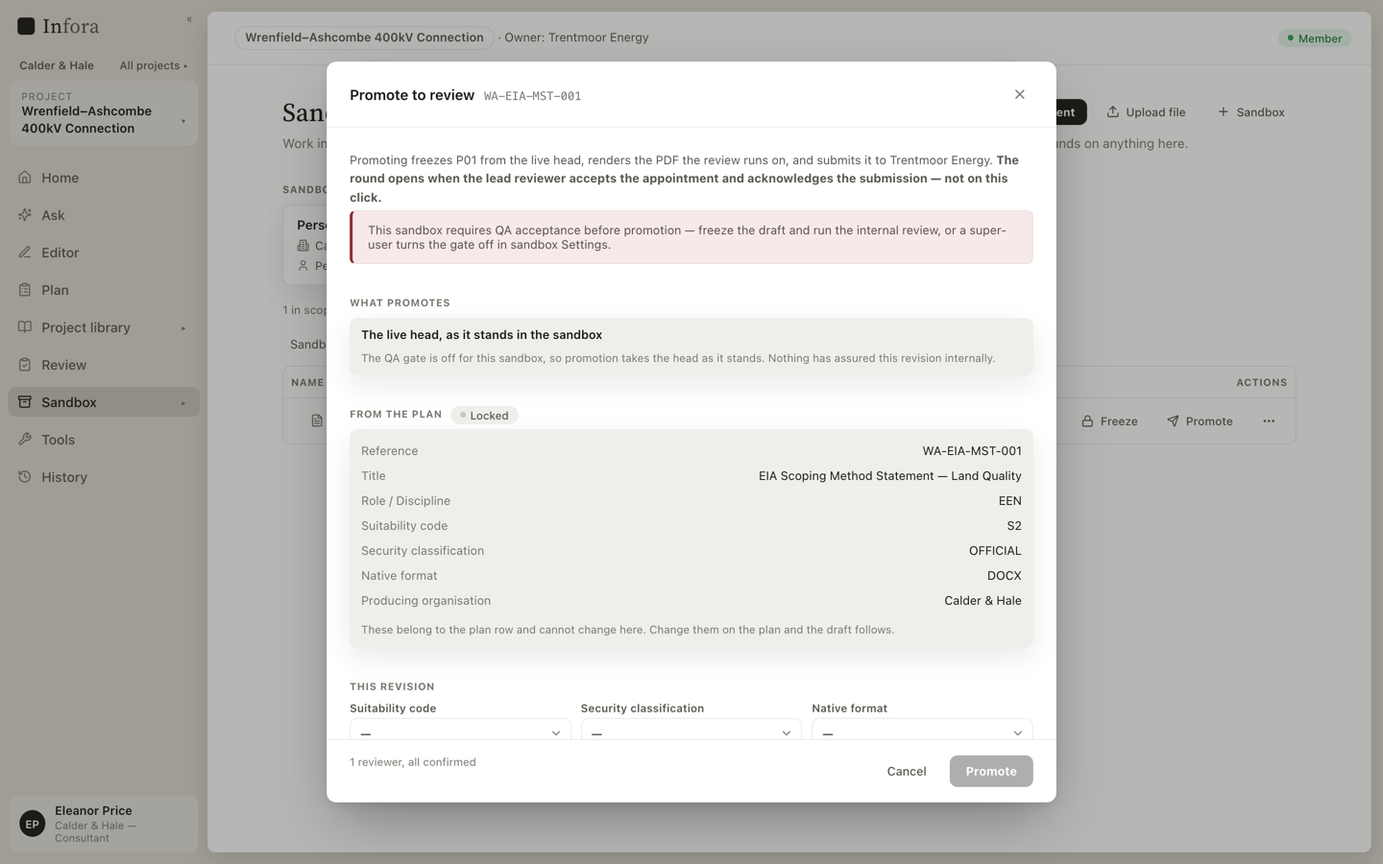
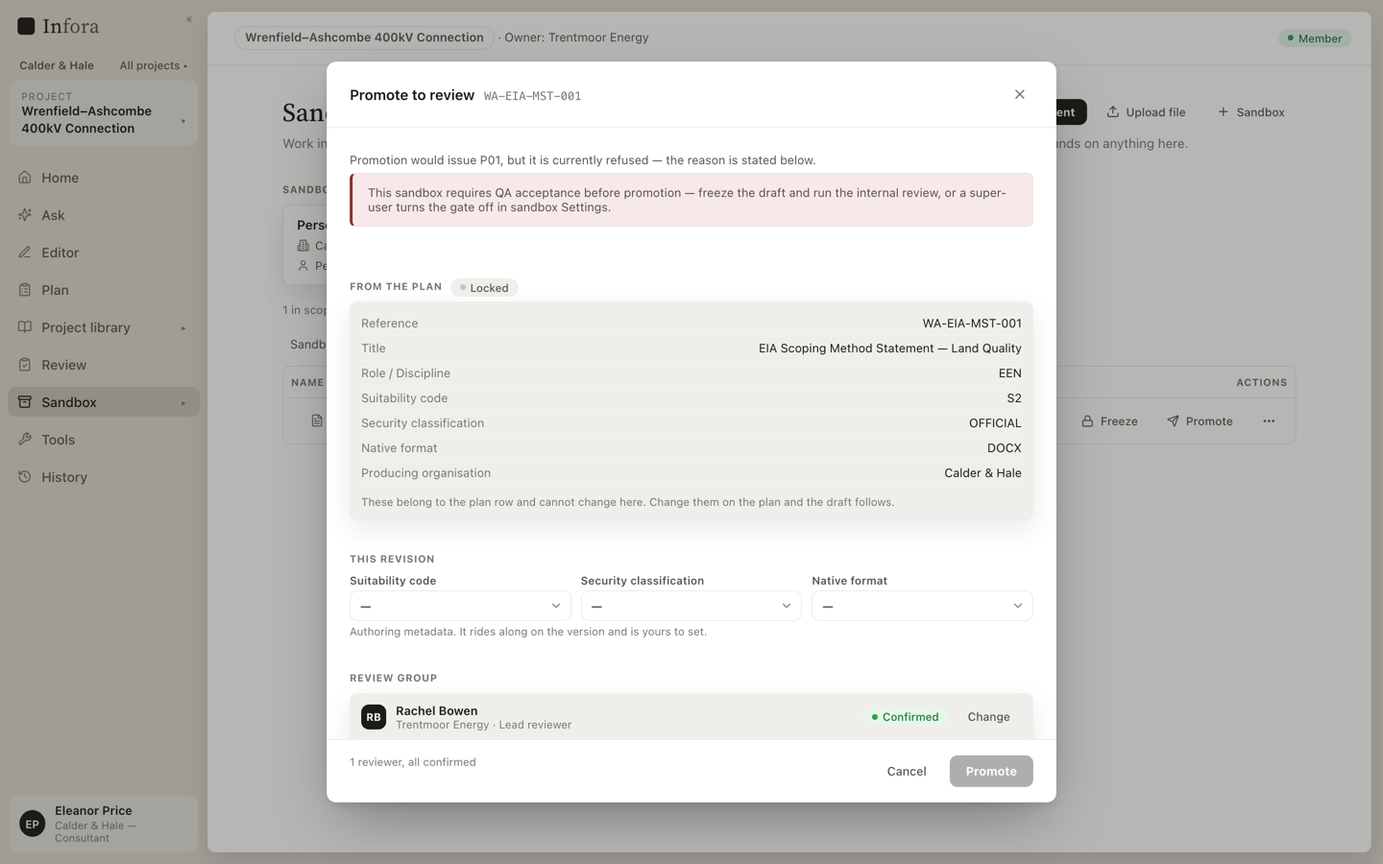
Slice Walkthrough 2 audit close-out: the records match the build, and the walkthrough is recaptured
The board gains the audit block (T-377–T-382, all built) and T-369's second
pass; three design forks the audit refused to rule alone are Q-042–Q-044.
contracts.md records the why of the three contract changes. personal-data.md's
decline-reason deletion clause moves out of the fourth cell of a three-column
table — where every renderer silently discarded it — into prose beside its
sibling. data-model.md states migration 0047's deliberate non-backfill where
an operator will find it: every pre-migration confirmed lead blocks
acknowledgement until that person accepts, and nobody is notified.

The walkthrough narrative stops describing screens the build does not
produce: beat 24 no longer narrates the record screen under the cycle
screen's photograph, beat 24a admits the third response state and the dash
cells, beat 13a's "every reviewer control writes a proposal" gains the
owner-side auto-confirm truth and the one-act swap, beat 15 names the
super-user fallback, the footer stops claiming round 1's acknowledgement was
API-driven, and the three capture dates agree. All 33 beats recaptured
through capture.mjs against the fixed build — beat 10's refused window no
longer contradicts itself, and beat 19's walled cycle screen now states the
withholding.

diff --git a/docs/architecture/user-stories-walkthrough.html b/docs/architecture/user-stories-walkthrough.html
@@ -101,7 +101,7 @@
 <div class="page">
   <header class="mast">
     <span class="mark"></span><span class="word">Infora</span>
-    <span class="doc">docs/architecture · recaptured 2026-08-09</span>
+    <span class="doc">docs/architecture · recaptured 2026-08-22</span>
   </header>
 
   <h1>The document management journey, on screen</h1>
@@ -366,7 +366,7 @@
   </div>
   <figcaption>
     <h3>The window reconfirms; it does not compose</h3>
-    <p>ADR-0008 made promotion a near-empty hand-off on purpose, because a form filled in the moment is a form filled wrong. This window survives that objection by splitting the fields rather than by tone. What promotes is named and read-only — the version internal QA accepted, and who accepted it, because the whole point of the gate is that the client receives the version that was checked. The plan-owned identity is shown and locked, so a thoughtless confirm produces exactly the plan’s state. Only what is already Eleanor’s to set takes input: the authoring metadata, the review group with its lead, and the review period. Every reviewer control writes a proposal — naming someone in another organisation proposes them and nothing more, because confirmation stays owner-side, and that is why a producing organisation cannot open the wall from this window. It reopens at every promotion, which earns its place at round two more than round one: six months and a staffing change later, the alternative is silently inheriting a review group named at planning and never looked at since.</p>
+    <p>ADR-0008 made promotion a near-empty hand-off on purpose, because a form filled in the moment is a form filled wrong. This window survives that objection by splitting the fields rather than by tone. What promotes is named and read-only — the version internal QA accepted, and who accepted it, because the whole point of the gate is that the client receives the version that was checked. The plan-owned identity is shown and locked, so a thoughtless confirm produces exactly the plan’s state. Only what is already Eleanor’s to set takes input: the authoring metadata, the review group with its lead, and the review period. From the producing side every reviewer control writes a proposal — naming someone in another organisation proposes them and nothing more, because confirmation stays owner-side (an owner-side naming confirms outright, as owner grants always have), and that is why a producing organisation cannot open the wall from this window. Changing the lead reviewer is one act, not a remove-then-name pair — the swap either happens whole or not at all, and the window states the wait it buys before the click commits it. It reopens at every promotion, which earns its place at round two more than round one: six months and a staffing change later, the alternative is silently inheriting a review group named at planning and never looked at since.</p>
     <p class="tags"><span class="tag">ADR-0008</span><span class="tag">ADR-0038</span><span class="tag">ADR-0033</span></p>
   </figcaption>
 </figure>
@@ -406,7 +406,7 @@
   </div>
   <figcaption>
     <h3>P01 submitted, awaiting acknowledgement</h3>
-    <p>The submission, from the producing side: Infora froze P01 out of the window above, rendered the review PDF beside the native file, and sent round 1 to Trentmoor. The four-state bar says exactly where the deliverable stands — submitted, and not yet in review, because the round does not open on the promoter’s click. It opens when the lead reviewer accepts the appointment and acknowledges the submission, which is the next two beats and neither of them is Eleanor’s to make.</p>
+    <p>The submission, from the producing side: Infora froze P01 out of the window above, rendered the review PDF beside the native file, and sent round 1 to Trentmoor. The four-state bar says exactly where the deliverable stands — submitted, and not yet in review, because the round does not open on the promoter’s click. It opens when the lead reviewer accepts the appointment and acknowledges the submission — or, with the lead away, when a Trentmoor super user acknowledges in their stead — which is the next two beats and neither of them is Eleanor’s to make.</p>
     <p class="tags"><span class="tag">ADR-0034</span><span class="tag">ADR-0041</span><span class="tag">ADR-0051</span></p>
   </figcaption>
 </figure>
@@ -582,7 +582,7 @@
   </div>
   <figcaption>
     <h3>Version two arrives already reconciled</h3>
-    <p>Rachel does not go hunting for what changed. Each response sits beside her comment in the same record, stamped “Changed in P02” with the passage that answers it; the no-change answer states its reason. Round 1 stands as the record it was; round 2 opens on the new version — which took the same road as the first, through its own internal QA pass, because one QA acceptance buys exactly one revision.</p>
+    <p>Version two arrives and the working screen stays on the round under review: round 2, freshly acknowledged, no comments yet — the reconciliation Rachel will read sits in the record one click away, which is the next beat. P02 took the same road as the first version, through its own internal QA pass, because one QA acceptance buys exactly one revision; and round 2 opened the way every round now opens, on acceptance and acknowledgement, not on the promoter’s click.</p>
     <p class="tags"><span class="tag">ADR-0009</span></p>
   </figcaption>
 </figure>
@@ -594,7 +594,7 @@
   </div>
   <figcaption>
     <h3>One table, appended to — not a sheet per round</h3>
-    <p>The chapter’s whole review history in one scroll: every comment in order with where it sits, its code, its author and the response that answered it, round one closed off by the deliverable code it concluded with, round two appended to the same table rather than opening a new one. This is what the Excel review notice could never do, and the reason ADR-0009 refused to materialise a second artifact from the record. Each response either points at the change — “Changed in P02”, with the passage — or states explicitly that none was made and why; there is no third state and no blank cell. Round two carries a band saying it has no code yet, because an open round with no verdict is a state rather than a gap, and no count of comments will ever fill it. There is no download, no “issue the record”, no print button anywhere on this screen: the DRN was dropped and a button here would quietly reinstate it.</p>
+    <p>The chapter’s whole review history in one scroll: every comment in order with where it sits, its code, its author and the response that answered it, round one closed off by the deliverable code it concluded with, round two appended to the same table rather than opening a new one. This is what the Excel review notice could never do, and the reason ADR-0009 refused to materialise a second artifact from the record. Each answered comment’s response either points at the change — “Changed in P02”, with the passage — or states explicitly that none was made and why; a response written before its promotion reads “change prepared for the next revision” until the stamp lands (ADR-0004’s declare-now, stamp-later). Round two carries a band saying it has no code yet, because an open round with no verdict is a state rather than a gap, and no count of comments will ever fill it. There is no download, no “issue the record”, no print button anywhere on this screen: the DRN was dropped and a button here would quietly reinstate it.</p>
     <p class="tags"><span class="tag">ADR-0009</span><span class="tag">ADR-0004</span><span class="tag">ADR-0005</span></p>
   </figcaption>
 </figure>
@@ -638,16 +638,16 @@
 </section>
 
   <footer class="prov-foot">
-    <p><strong>Provenance.</strong> Recaptured 2026-08-09 from the running application: e2e API substrate with deterministic
+    <p><strong>Provenance.</strong> Recaptured 2026-08-22 from the running application: e2e API substrate with deterministic
     model providers, the seeded three-organisation Wrenfield world, Playwright-driven browser sessions for all three personas.
     The one beat Playwright cannot photograph — the library modal’s embedded PDF pane — is represented by the library
     table instead.</p>
     <p><strong>What was driven through the API rather than clicked.</strong> Setting up the world: four plan rows beside
     the seeded one and their schema metadata, the organisation’s column standard, the draft and its text, and filing that
     draft into its deliverable folder. Running the cycle: appointing the internal reviewer and the re-freeze that opens the
-    QA round (both explained in Act III’s gap card), the owner’s acknowledgement of each submission, and version two’s
-    internal QA pass and promotion, which repeat Act III’s road and are narrated rather than re-photographed. Everything a
-    screenshot on this page shows being done was done on that screen.</p>
+    QA round (both explained in Act III’s gap card), version two’s acknowledgement — round 1’s is the beat-16 click —
+    and version two’s internal QA pass and promotion, which repeat Act III’s road and are narrated rather than
+    re-photographed. Everything a screenshot on this page shows being done was done on that screen.</p>
     <p><strong>What moved under the last capture.</strong> An owner-directed walk of the previous version of this page
     produced nine rulings, built the same day as tickets T-355 and T-358–T-366. Five of them are new beats here: the schema
     screen the story now opens on, the structure builder and its assistant, the three-way folder mode beside the promotion

diff --git a/docs/build/plan.md b/docs/build/plan.md
@@ -80,7 +80,7 @@ The wave design-reference blocks below are a **holding pen, not a home**. Each f
 
 ## How to read a ticket
 
-`T-###` — title. **Next free number: T-377** — **derive it, don't trust it: `pnpm run check:tickets -- --next`** scans this board, the history *and* `git log` and prints the next free number. Bump this line in the same commit that claims numbers; `pnpm run check` fails if it falls behind, or if one number is defined twice. The line stays because it is readable, but the script is the authority — the prose convention alone let concurrent sessions collide twice (T-208–T-210, T-223–T-233). **Deps:** tickets that must be done first — **tickets only, never a `Q-###`** (see the rule below).
+`T-###` — title. **Next free number: T-383** — **derive it, don't trust it: `pnpm run check:tickets -- --next`** scans this board, the history *and* `git log` and prints the next free number. Bump this line in the same commit that claims numbers; `pnpm run check` fails if it falls behind, or if one number is defined twice. The line stays because it is readable, but the script is the authority — the prose convention alone let concurrent sessions collide twice (T-208–T-210, T-223–T-233). **Deps:** tickets that must be done first — **tickets only, never a `Q-###`** (see the rule below).
 
 **⚖ The Q/T boundary — what earns a ticket number** *(adopted 2026-08-01)*. **A `T-###` is minted when the work can be *specified*. A `Q-###` exists when the question can be *stated*.** Being able to state a question precisely is not the same as being able to answer it, and it is never enough to justify a build ticket. So: unruled work is named in its slice's prose as **🌫 Fog** and ticketed when the ruling lands; a Deps field contains tickets only; and **what a question blocks lives in that question's own Blocks field**, which is the one place that relationship is recorded. The cost of getting this wrong is not theoretical — tickets minted against open questions carried the tracker's *recommendations* into their text, and when the rulings went the other way the board contradicted itself and needed a reconciliation commit (504f473). **Done when:** the acceptance test, drawn from the destination spec its slice serves â [v1.md](v1.md) for current work, [plan-history.md](plan-history.md) for the closed skeleton milestones. Package names from [repo-structure.md](repo-structure.md). A ticket is sized for one focused agent run (roughly a PR each).
 
@@ -439,7 +439,16 @@ entry naming its gate and where its design lives.
 - **T-357 — Retire the review screen's parallel plan form.** `review.tsx` still carries a pre-Plan-screen "+ Plan a deliverable" inline form: it bypasses the naming scheme, lacks the elevated-tier gate `plan.tsx` enforces, and maps every failure — including the API's `403 super_user_required` — to "That document reference already exists on this project." One creation path (the Plan screen's modal); the review schedule links there instead. | *(Deps: none)*
 - **T-370 — Agent actor identity, and the receipt-with-undo substrate.** The ADR-0027 agent-act amendment's administrative lane (S10, owner-ruled 2026-08-09) licenses an embedded agent to execute menial acts directly — and no build may adopt that lane until two substrates exist, because both are what makes direct execution *reviewable after the fact* rather than merely permitted: (1) **the act attributed to the agent run** — today every write is attributed to the invoking participant alone; the run is recorded, but the act itself never says an agent performed it — an acting-run reference on audited acts, surfaced wherever the act is shown; (2) **the "what the agent did" receipt with undo**, designed once and reused by every administrative agent (reversible or additive acts only — the amendment's own boundary). Until this lands, T-337 and T-364 stay preview-confirm, which the amendment reads as interaction design, not doctrine. personal-data.md check rides along (no new named-person data expected — the run already carries its requester). | *(Deps: none)*
 - **T-376 — `null` means two things on the plan screen, and one of them reopens invented references.** ✅ **Built 2026-08-22.** *(Found 2026-08-22 by the Slice Walkthrough 2 capture — an e2e flake was the symptom, and the cause is in the product.)* [plan.tsx:648](../../apps/web/src/screens/plan.tsx#L648) holds the naming scheme as `NamingScheme | null` filled by an async read, and the New-deliverable modal branches on it: `scheme ? coded dropdowns : a manual reference field`. So **`null` carries "this project has no scheme" and "the scheme has not arrived yet" in one value**, and the UI renders the same thing for both. Two consequences. **The manual branch has no reachable state:** `GET /naming-scheme` never returns null — `loadSchemeOrDefault` serves the Infora default when nothing is saved (T-188) — so it is an unlabelled *loading* state wearing the costume of a configuration, and opening the modal fast gives you a reference field you can type into which is then swapped out under you. **And a failed read degrades to hand-typing:** there is no `.catch` on that effect, so a rejection leaves `scheme` null forever and the modal presents manual reference entry as though it were the project's setting — quietly reopening the thing ADR-0008 exists to close (*the reference is generated, never invented*). **The contract let the ambiguity in:** `GetNamingSchemeResponse` is `NamingScheme | null` and is never null. Make the type honest, give the screen a real three-state (loading / ready / failed) with creation **refused** rather than degraded when the scheme cannot be read, and delete the dead branch. The e2e flake at [slice-a2-ui.spec.ts:42](../../e2e/tests/slice-a2-ui.spec.ts#L42) — which branches on the same race — then needs no test-side fix at all, which is the tell that the repair is in the right place. **What it uncovered is worth as much as what it fixed:** the manual branch was an accidental escape hatch, and deleting it made two flakes hiding behind it deterministic — both **T-369**, fixed alongside. The lesson generalises past this screen: an optional type is a claim that the absent case is *reachable and meaningful*, and where it is neither, some surface eventually invents a meaning for it. | *(Deps: none)*
-- **T-369 — The plan-seed test asserts on a position it does not own.** ✅ **Built 2026-08-22**, alongside T-376, which turned it from intermittent into deterministic and so forced it. *(Found 2026-08-09 verifying T-368 — it failed once, then passed on three consecutive runs, which is the tell.)* `sandbox-structure.spec.ts:61` creates one plan row with `discipline: 'ECV'` and then asserts the builder's **first** proposed folder name matches `/ECV/` — but the T-363 seed derives one candidate per **distinct discipline on the whole organisation's plan**, ordered, so `first()` is only ECV while nothing sorts before it. `slice-a2-ui.spec.ts:45` drives the New-deliverable modal by selecting `{ index: 1 }` on every combobox, and index 1 of the discipline field is **`CCA`** — the first entry in the default scheme's discipline list, and alphabetically ahead of ECV. Both suites share the seeded database and `fullyParallel: false` only serialises *within* a file, so whether the CCA row exists yet is a matter of which file a worker picked up first. **The assertion is the defect, not the ordering:** the test should match its own row's candidate wherever it sits (filter the inputs by value, or assert the row it created is present among them) rather than assume position — pinning the execution order would hide the same fragility in the next test that seeds a discipline. Worth a sweep for the sibling pattern: any `.first()` assertion over a list the shared seed can grow. **As built, and the sweep found the bigger half:** the assertion now polls the candidate inputs' live values for its own row wherever it sits, rather than reading `.first()`. But the diagnosis above named the real defect and stopped short of acting on it — *"`fullyParallel: false` only serialises within a file"* — and that is a **configuration** claiming a guarantee it does not give: the comment beside it said *"suites share the seeded database"* while the files were being handed to five workers. The sharper case is not ordering at all: `slice-a2` **replaces the project-wide coding scheme** mid-suite while `slice-a2-ui` is driving the New-deliverable modal against it, so the modal's selections stop matching the scheme between render and click and creation is refused. No assertion can be written around that — it is two tests owning one piece of mutable global state. `workers: 1` is the honest version of the intent the comment already had; the whole suite runs in under thirty seconds, so the parallelism was never paying for the flakes it bought. | *(Deps: none)*
+- **T-369 — The plan-seed test asserts on a position it does not own.** ✅ **Built 2026-08-22**, alongside T-376, which turned it from intermittent into deterministic and so forced it. *(Found 2026-08-09 verifying T-368 — it failed once, then passed on three consecutive runs, which is the tell.)* `sandbox-structure.spec.ts:61` creates one plan row with `discipline: 'ECV'` and then asserts the builder's **first** proposed folder name matches `/ECV/` — but the T-363 seed derives one candidate per **distinct discipline on the whole organisation's plan**, ordered, so `first()` is only ECV while nothing sorts before it. `slice-a2-ui.spec.ts:45` drives the New-deliverable modal by selecting `{ index: 1 }` on every combobox, and index 1 of the discipline field is **`CCA`** — the first entry in the default scheme's discipline list, and alphabetically ahead of ECV. Both suites share the seeded database and `fullyParallel: false` only serialises *within* a file, so whether the CCA row exists yet is a matter of which file a worker picked up first. **The assertion is the defect, not the ordering:** the test should match its own row's candidate wherever it sits (filter the inputs by value, or assert the row it created is present among them) rather than assume position — pinning the execution order would hide the same fragility in the next test that seeds a discipline. Worth a sweep for the sibling pattern: any `.first()` assertion over a list the shared seed can grow. **As built, and the sweep found the bigger half:** the assertion now polls the candidate inputs' live values for its own row wherever it sits, rather than reading `.first()`. But the diagnosis above named the real defect and stopped short of acting on it — *"`fullyParallel: false` only serialises within a file"* — and that is a **configuration** claiming a guarantee it does not give: the comment beside it said *"suites share the seeded database"* while the files were being handed to five workers. The sharper case is not ordering at all: `slice-a2` **replaces the project-wide coding scheme** mid-suite while `slice-a2-ui` is driving the New-deliverable modal against it, so the modal's selections stop matching the scheme between render and click and creation is refused. No assertion can be written around that — it is two tests owning one piece of mutable global state. `workers: 1` is the honest version of the intent the comment already had; the whole suite runs in under thirty seconds, so the parallelism was never paying for the flakes it bought. **Second pass, 2026-08-23 (the audit's finding):** the sweep had missed a file and half the mutation — `ontology.spec.ts` read `plan.items[0]`/`library.items[0]` off reference-ordered lists that three sibling suites plant earlier-sorting rows into (passing purely by file order, which `workers: 1` hides rather than fixes), and `slice-a2` replaced the project-wide coding scheme with **no restore**, so a second local run of any suite met the WA/BB-CC/GEO-ENV scheme instead of the seeded default — serialisation orders mutations, it does not undo them. Both closed: the reads are named, and `slice-a2` puts the Infora default back in `afterAll`. | *(Deps: none)*
+
+**Slice Walkthrough 2 audit findings** *(the 2026-08-22 adversarial audit of the slice, reproduced live against the running stack — the residue with numbers. T-377–T-382. Three design forks the audit refused to rule alone went to the tracker as Q-042–Q-044.)*
+
+- **T-377 — The lead swap could not be performed, and in one configuration destroyed the appointment.** ✅ **Built 2026-08-22.** The promotion window fired the swap as revoke-then-grant, and both halves were wrong. **The revoke:** a producing-side caller may only retract an *unconfirmed* proposal ([plan.ts](../../apps/api/src/plan.ts) revocation guard), so the mockup's State B — the scenario the window exists for — aborted at its first act with a bare "not found", after permanently applying any staged removals of unconfirmed reviewers ("Undo means never happened" was false the moment Promote was clicked). **The gate:** `resolvePromotion` demanded a *confirmed* lead, while ADR-0033 §1 says *"replacing the lead stalls that round"* — the submission exists and waits — and the approved mockup drew Promote clickable with the new lead badged Proposed; where the promoting author happened also to be the confirmed lead reviewer, the revoke *succeeded*, the grant landed unconfirmed, the promotion refused 409, and the deliverable was left with no live lead and nothing rolled back (reproduced live). **As built:** promotion accepts a **named** lead — proposed is enough; the confirmed-and-accepted gates stay on the acknowledgement where ADR-0051 put them — and the swap is **one transactional act**, `POST /containers/:id/lead-reviewer`, revoking the standing lead and writing the new proposal together, because the one-live-lead invariant makes the pair inseparable. The revocation endpoint additionally admits the producing side's row-editors (ADR-0008 addendum: the lead author *"may amend the review group"*; revocation only narrows access, so the wall is untouched). The window fires the swap as that one act, enables Promote when the only blocker is the very lead the staged swap creates, and refuses client-side when a lead is staged-removed with no replacement named. E2e now drives State B end to end — the half no run ever drove, which is how it shipped broken. | *(Deps: none)*
+- **T-378 — A failed scheme read could wipe the project's coding scheme.** ✅ **Built 2026-08-22.** T-376 fixed "loading wearing the costume of configuration" on the plan screen and missed the same shape one screen over, where it writes: [schema.tsx](../../apps/web/src/screens/schema.tsx) loaded the scheme with no `.catch`, a failed read left the editor showing an empty field table, and Save would have written that emptiness back over the real scheme. The editor now holds the plan screen's three-state (loading / ready / failed) and **saving is refused, not degraded**, until the real scheme has arrived; the failed state says so beside the disabled button. The sandbox screen's cosmetic read gains its missing `.catch`. | *(Deps: none)*
+- **T-379 — The wall is one discipline, not one screen's.** ✅ **Built 2026-08-22.** T-375 walled the record screen and the audit found two siblings still asserting the absence the wall denies: the cycle screen rendered *"No comments yet — the round is open to the review group"* to the walled side — the exact sentence the record's e2e forbids, one click from the record via its own "Open the round" button — and the status page drew a "Reviewing" badge for every confirmed reviewer off a withheld-empty completions list, asserting "nobody has finished" from data the server refused to send. The cycle screen now states the withheld notice; the contract gains `Round.completionsWithheld` beside `commentsWithheld` (an empty array alone cannot tell "none" from "not yours to know"), computed in the same server-side phasing, and the badge stands down when it is set. E2e now visits the cycle screen as the walled side. | *(Deps: none)*
+- **T-380 — The refused promotion window contradicted itself on screen.** ✅ **Built 2026-08-22.** A preflight that refuses carries no real source decision — the API fills `source: 'head'` as a placeholder — so the very window showing the QA-gate refusal also asserted *"The QA gate is off for this sandbox… Nothing has assured this revision internally"*, flatly false, and photographed into the walkthrough's beat 10. The window now renders the source claims and the "What promotes" card only when the preflight succeeds; a refused preflight states the refusal and nothing the refusal makes unknowable. | *(Deps: none)*
+- **T-381 — The target date the user was shown was not the date the server stored.** ✅ **Built 2026-08-22.** [addWorkingDays](../../apps/api/src/review-period.ts) counts working days in UTC; the window's Target preview counted them in the browser's local time, so whenever the local clock and UTC sat on different calendar days at the click — evenings in the Americas — the preview and the stored target disagreed by a day, with the round going overdue a day before the date the window promised (US Pacific, Friday 18:00, one working day: preview Monday, stored target renders Sunday — computed, not speculated). The preview now walks the same UTC arithmetic as the server, so the two cannot disagree. | *(Deps: none)*
+- **T-382 — The window's "what promotes" promise, made honest under concurrency.** ✅ **Built 2026-08-22.** The preflight and the act run the same decision function, so the *gates* could never drift — but the *statements* could: a fresh QA acceptance landing between the window opening and Promote being clicked would silently promote different content than the version the window named, with no re-confirmation. The promotion body now carries `expectedSourceVersionReference` — the source the caller was shown, null for the head — and the POST refuses `409 promotion_state_changed` when the answer has changed; omitted, no check, so bare callers and tests are untouched. | *(Deps: T-373)*
 
 **Slice Walkthrough 2 — the promotion window, the appointment, and the review record** *(the second owner-directed walk of [user-stories-walkthrough.html](../architecture/user-stories-walkthrough.html), 2026-08-19 → 22 → addenda to [ADR-0005](../architecture/adr/0005-assurance-cycle.md), [ADR-0008](../architecture/adr/0008-deliverable-plan.md), [ADR-0033](../architecture/adr/0033-per-org-plans-appointment-grants-administration.md) and [ADR-0051](../architecture/adr/0051-review-submission-owner-acknowledgement-gate.md). T-371–T-375.)* Four rulings, all in the stretch between a finished draft and an open round — the part of the cycle the first walk left alone. Three are **surfaces for acts the model already has** and one, the appointment acceptance, is an act the model never had. **Each was drawn before it was built:** `promotion-window.html`, `appointment-acceptance.html` and `review-log.html` were ruled on before any code, and each was **deleted when its screen was photographed into the walkthrough on 2026-08-22** — the capture is the record now, and the reasoning is in the ADR addenda, which is why those were written first ([docs/design/README.md](../design/README.md)). Build in number order; T-375 waits on nothing and can go first or last. **Notifications are deliberately out** — the owner deferred Slice V1-N on 2026-08-22, so an appointed lead reviewer is told nothing and finds out by opening the deliverable: the gate holds, the submission just waits longer.
 

diff --git a/docs/grill-sessions/grill-questions.md b/docs/grill-sessions/grill-questions.md
@@ -36,7 +36,7 @@ is the **process log**.
 
 ## How to read an entry
 
-`Q-###` — title. **Next free number: Q-042** — **derive it, don't trust it:
+`Q-###` — title. **Next free number: Q-045** — **derive it, don't trust it:
 `pnpm run check:questions -- --next`** (T-343) scans this tracker,
 [grill-history.md](grill-history.md) *and* `git log`, and prints the next free
 number. Bump this line in the same commit that claims one; `pnpm run check`
@@ -184,6 +184,9 @@ this group that a ticket found by trying to build the thing.
 ### The record
 
 - ~~**Q-041 — Where the review record lives.**~~ ✅ **Ruled 2026-08-22 (owner): its own pane.** Raised by T-375 as the one fork its approved mockup left marked *"needs your yes/no"*, and answered as built — the record keeps its own route (`review/:containerId/record`), so it is a place you can send someone rather than a view of a screen, and the round tray stays the working surface it is. Record in [grill-history.md](grill-history.md).
+- **Q-042 — Does the internal QA lead give the undertaking too?** **[A]** · *Blocks: nothing — the built exemption is ADR-licensed.* Raised 2026-08-22 by the slice-walkthrough-2 audit. **The user situation:** inside one firm's own sandbox, a colleague is named internal QA lead and the QA round simply opens — no Accept click, because sandbox rounds are born open (ADR-0051 §4: a firm should not acknowledge its own submission to itself) and the acceptance gate rides the acknowledgement. Yet the QA verdict is what promotion issues to the client, and the appointment surface at that scope shows the same undertaking card asking for a yes that nothing waits on. **Recommendation:** keep the exemption — the internal verdict is org-private QA, not the contractual verdict the undertaking exists for — and say so on the card at that scope. **Stress test:** the same fork hides a second one — at sandbox scope a declined QA appointment's *reason* is readable by nobody but its author, because "owner-organisation-private" names the wrong organisation on a container the owner cannot even see; whoever answers this question should say who reads a QA decline reason.
+- **Q-043 — What does a declined reviewer's history still let them do?** **[A]** · *Blocks: nothing.* Raised 2026-08-22 by the same audit. **The user situation:** a reviewer marks "review complete" on the open round, then declines their lead appointment for the next. As built (T-372), the decline strips every reviewer act at once — so their standing completion mark can never be withdrawn (it renders forever), and they can no longer fix a typo in a comment that stays attributed to them on the permanent record. **Recommendation:** authorship of what they already wrote is a separate standing from the appointment they refused — let the author edit their own comment while the round is open, and let a completion mark be withdrawn by its owner regardless of the grant's state. **Stress test:** if a declined reviewer can still touch their comment, the wall must be clear that this is authorship, not membership — they gain no read on anything the decline lost them.
+- **Q-044 — Resigning a lead appointment after accepting it.** **[A]** · *Blocks: nothing.* Raised 2026-08-22 by the same audit. **The user situation:** a lead reviewer accepted three months ago; they are leaving the firm's project team next week. There is no resignation act — decline is refused once accepted — so the only exit is the T-352 side door: as live confirmed lead they may revoke their own grant, which works but records **no reason**, the very thing the decline design insists a refusal must carry. **Recommendation:** a resignation act on the accepted grant — reason mandatory, revokes the grant, same one-live-lead consequences as a decline — so the record reads "resigned, because" instead of a bare revocation. **Stress test:** ADR-0033 §2's "the way out is re-appointment, never an override" was written about *others* overriding the appointee; a resignation is the appointee's own act, so it needs no ADR amendment — confirm that reading before building.
 - **Q-015 — The audit record: retention, cancellation, and granularity.** **[B]** · *Blocks: Q-001, Q-018.* Substantially ruled 2026-07-12 (T-104): the record is retained background data anchored to the work, producing-organisation-private, never a review surface — the consultant carries the professional liability. **Still open:** retention and expiry (may unaccepted refine-chain suggestions or old chat runs ever be deleted?), the cancellation state (**Q-010**), whether ad-hoc chat deserves a lighter record than governed work, and whether provenance ever re-surfaces document-anchored on an insurer or regulator demand.
 - **Q-010 — Cancelling a run server-side.** **[A]** · *Blocks: nothing; decide with streaming.* T-097's cancel aborts the client's wait; the run completes and stands in the record. A real Stop needs a Run state-machine ruling — a `cancelled` terminal state vs `failed` with a cancellation rail outcome — and an abort path through the chain. Streaming changes the same seam, so decide them together.
 - **Q-022 — Citation → chunk provenance.** **[C]** · *Blocks: nothing.* Sources hoverable to render the exact retrieved chunk. **Probably discharged by T-253** (passage-grain audit records `chunk_id` alongside `version_id`); verify what remains is only the hover surface, and close this if so.

diff --git a/docs/build/personal-data.md b/docs/build/personal-data.md
@@ -40,10 +40,12 @@ Grouped by *why* it exists, because that is the question a DPA and a DPIA both a
 | Presence heartbeats: `participantId`, `lastSeenAt` | `document_presence` | Multiplayer presence (ADR-0039, T-175). **Fine-grained activity data** — who had which document open, when |
 | Check-out / binding / promotion actors | `sandbox_checkout_events`, `binding_events` | Append-only lifecycle trails (ADR-0032/0038) |
 | Named authors, reviewers, acknowledgers (incl. the ADR-0051 submission acknowledger on rounds, T-346), responders, completion signals (ADR-0052, T-353) | `deliverable_authors`, `deliverable_reviewers`, `deliverable_acknowledgements`, `rounds`, `review_comments`, `responses`, `review_completions` | The review cycle (ADR-0032/0014); a named human signed this off |
-| A lead-reviewer appointment's own answer: `accepted_at`, and for a refusal `declined_at` plus the **reason in free text** (ADR-0033 addendum, 2026-08-22; built T-372) | `deliverable_reviewers` | The appointment is the person's own undertaking, so the refusal is theirs too — and the reason is why the deliverable is visibly waiting | ⚠ **A refusal is data about a person exactly as an acceptance is**, the same reading `elevated_refusals` gets below. The reason is **owner-organisation-private, enforced in the server's read** rather than by the client hiding a field: it reaches the owner organisation and the person who wrote it, and the producing side learns only that a lead reviewer is awaited, never why. The refusal is **never revoked away** — a declined grant keeps its open interval and simply stops being a live lead — so deletion follows the grant it sits on |
+| A lead-reviewer appointment's own answer: `accepted_at`, and for a refusal `declined_at` plus the **reason in free text** (ADR-0033 addendum, 2026-08-22; built T-372) | `deliverable_reviewers` | The appointment is the person's own undertaking, so the refusal is theirs too — and the reason is why the deliverable is visibly waiting |
 | Label overrides: who overrode, and why | `label_overrides` | T-249 — an override without a name is not an audit record |
 | Work-item assignee | `work_items.assigneeParticipantId` | Who owns the work |
 | **Refused destructive acts:** who attempted to close-as-rejected, withdraw or restore a deliverable, and was stopped for want of the elevated tier | `elevated_refusals` | T-301 — a control nobody can see operating is a control nobody can audit. **Append-only by trigger**, deliberately: the people who hold this tier are exactly the people who would want a refusal gone |
+
+⚠ **A refusal is data about a person exactly as an acceptance is**, the same reading `elevated_refusals` gets below. The decline reason is **owner-organisation-private, enforced in the server's read** rather than by the client hiding a field: it reaches the owner organisation and the person who wrote it, and the producing side learns only that a lead reviewer is awaited, never why. The refusal is **never revoked away** — a declined grant keeps its open interval and simply stops being a live lead — so **deletion follows the grant it sits on** (ADR-0050 §6's rule, as for everything else in this table). *(This paragraph previously lived as a fourth cell of the row above, which a three-column table silently discards at render — T-378's audit found it invisible in every rendered view of this file.)*
 
 **`elevated_refusals` records an act that did NOT happen**, which is the row in this table most easily forgotten and the reason it is named here: it holds a named person's *attempt*, and an attempt is data about a person exactly as a completed act is. **Deletion follows its container** (ADR-0050 §6's rule, applied rather than extended): the trail of attempts on a deliverable in the owner's library is retained with that deliverable, and one on the producing firm's own material goes with it. **A cross-organisation attempt is never recorded at all** — it is answered `404` above the tier check, so no row exists to delete, which is the cheapest kind of minimisation available.
 

diff --git a/docs/build/contracts.md b/docs/build/contracts.md
@@ -337,3 +337,29 @@ are not recorded here.
   creation refused rather than degraded. The lesson worth keeping is general:
   an optional type is a claim that the absent case is *reachable and meaningful*
   — where it is neither, some surface will eventually invent a meaning for it.
+- **2026-08-22 (T-377) — the lead swap became one act because the invariant
+  made two acts inseparable.** `POST /containers/:id/lead-reviewer`
+  (`nameLeadReviewerBody` → `LeadReviewerReplacement`) exists because the
+  promotion window fired the swap as revoke-then-grant, and the one-live-lead
+  invariant means any failure between the two strands the deliverable with no
+  lead at all — the audit reproduced exactly that. A composite write is
+  normally the thing this contract avoids, but a swap is not a composite: it is
+  one decision whose two rows are meaningless apart, which is the test for
+  fusing them. Both interval rows still land on the record, and the naming
+  follows the ordinary confirmation rules, so nothing about the wall moved.
+  The same ticket relaxed the promotion gate to a *named* lead — proposed is
+  enough — because ADR-0033 §1 says a replaced lead *stalls* the round, and a
+  stall requires the submission to exist.
+- **2026-08-22 (T-379) — `Round.completionsWithheld`, for the same reason
+  `commentsWithheld` exists.** The completions array was already withheld
+  server-side, but an empty array alone cannot tell "nobody has finished" from
+  "not yours to know while the round is open" — and a surface duly invented
+  the wrong meaning, badging every reviewer "Reviewing" off data it was never
+  sent. Same phasing, same field shape, same house rule.
+- **2026-08-22 (T-382) — the promotion body carries what the caller was
+  shown.** `promoteDocumentBody.expectedSourceVersionReference` exists because
+  the preflight and the act share one decision function, which pins the gates
+  but not the *statements*: a QA acceptance landing between window and click
+  changed which content promoted with no re-confirmation. The field is the
+  caller's quoted answer, not a lock — omitted means no check, so callers that
+  never stated a source are untouched.

diff --git a/docs/build/data-model.md b/docs/build/data-model.md
@@ -258,7 +258,12 @@ partial unique index excludes it, so a replacement can be named without
 revoking the refusal, which stays on the record as the interval discipline
 requires. The decline reason is a named person's stated refusal
 ([personal-data.md](personal-data.md)) and is owner-organisation-private — the
-producing side learns only that a lead reviewer is awaited. ADR-0035 adds the acknowledgement gate and per-participant narrowing
+producing side learns only that a lead reviewer is awaited. **Migration 0047
+deliberately does not backfill `accepted_at`:** a backfill would manufacture an
+undertaking nobody gave, so every lead confirmed before the migration blocks
+acknowledgement until that named person clicks Accept — and with notifications
+deferred (Slice V1-N) nobody is told; an operator upgrading an in-flight
+project should expect submitted rounds to wait on that click. ADR-0035 adds the acknowledgement gate and per-participant narrowing
 on the same substrate. **ADR-0051 (ruled 2026-08-06, builds with T-346) adds
 a second acknowledgement one level up:** a project-scope round is created
 `submitted` and opens for review only when a Participant of the owner
